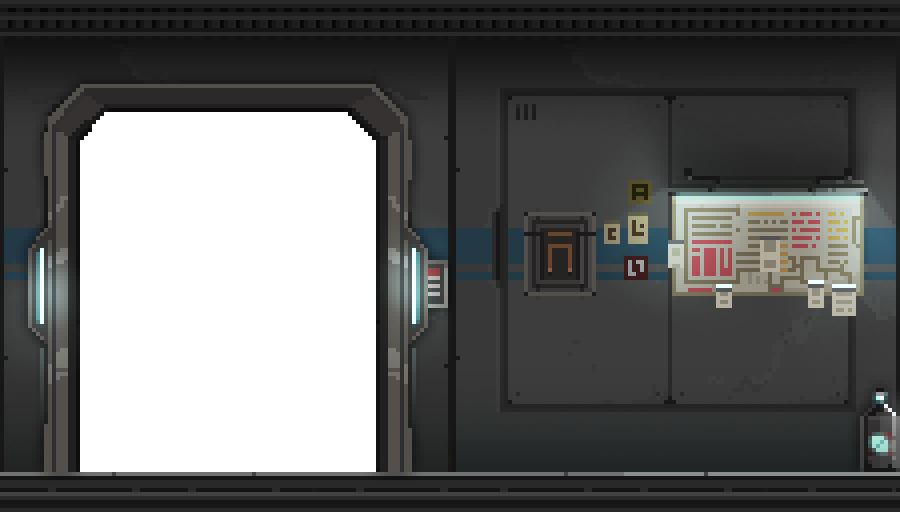
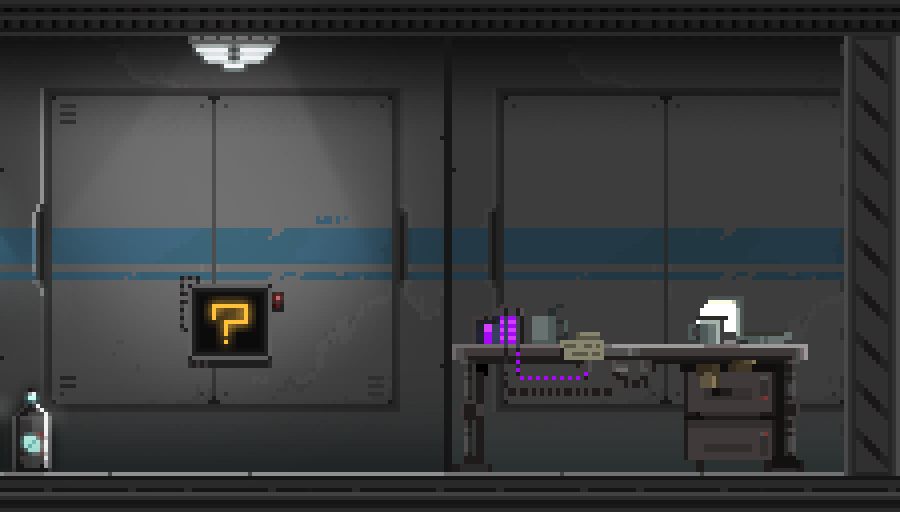
background 0

diff --git a/src/main.c b/src/main.c
@@ -5,9 +5,10 @@
 #include <stdbool.h>
 
 extern Camera2D camera; 
+#define SCREEN_WIDTH 900
+#define SCREEN_HEIGHT 512
 
 int main() {
-    
     InitWindow(900, 512, "SINT-7");
     SetTargetFPS(60);
     
@@ -15,50 +16,27 @@ int main() {
     InitGraphics();
     InitCamera();
 
-    Vector2 offset = { 0,0 };
-
-    Image bgImage = LoadImage("assets/setores/setor1.png");
-    ImageResize(&bgImage, 900, bgImage.height); // Só ajusta altura
-    Texture2D background = LoadTextureFromImage(bgImage);
-    UnloadImage(bgImage);
-    
-
     while (!WindowShouldClose()) {
-        // Atualiza movimentação do jogador
         if (IsKeyDown(KEY_RIGHT)) player.position.x += 2;
         if (IsKeyDown(KEY_LEFT))  player.position.x -= 2;
 
-        offset.x += GetFrameTime() * 100;
-        offset.y -= GetFrameTime() * 100;
+        update_player();
+        UpdateCameraMove(player.position.x);
 
-        camera.target = (Vector2){ player.position.x + player.width/2, player.position.y + player.height/2 };
+        camera.target = (Vector2){ player.position.x + player.width/2, SCREEN_HEIGHT / 2.0f };
 
         BeginDrawing();
             ClearBackground(BLACK);
 
             BeginMode2D(camera);
-                // Desenhe aqui o mundo, incluindo o player e o cenário
-                
-                //DrawTexture(background, 0, 0, BLACK);
-                DrawRectangleV(player.position, (Vector2){player.width, player.height}, BLUE);
-
-                update_player();
-                draw_player();
-
-                
+                DrawBackground();  // <<--- DESENHA OS SETORES
+                draw_player();     // <<--- DESENHA O PLAYER
             EndMode2D();
+
             DrawText(TextFormat("Player X: %.2f", player.position.x), 10, 30, 20, WHITE);
             DrawText(TextFormat("Camera X: %.2f", camera.target.x), 10, 50, 20, WHITE);
-
-
             DrawText("HUD ou UI fora da camera", 10, 10, 20, WHITE);
-        
         EndDrawing();
-
-
-          // o draw_player já deve descontar cameraX
-
-        //EndDrawing();
     }
 
     UnloadGraphics();

diff --git a/src/player.c b/src/player.c
@@ -12,7 +12,7 @@ float scale = 4.0f;  // Aumenta 4x (de 16x16 para 64x64 pixels)
 
 
 void init_player() {
-    player.position = (Vector2){ 100, 190 };
+    player.position = (Vector2){ 100, 410 };
     player.sprite = LoadTexture("assets/branquinho-fofinho/idle.png");
     player.vida = 3;
 

diff --git a/src/graphics.c b/src/graphics.c
@@ -3,9 +3,7 @@
 #include "stdlib.h"
 #include "stdio.h"
 
-
-
-#define SECTOR_COUNT 8
+#define SECTOR_COUNT 2
 #define SECTOR_WIDTH 900
 #define SECTOR_HEIGHT 512
 #define SCREEN_WIDTH 900
